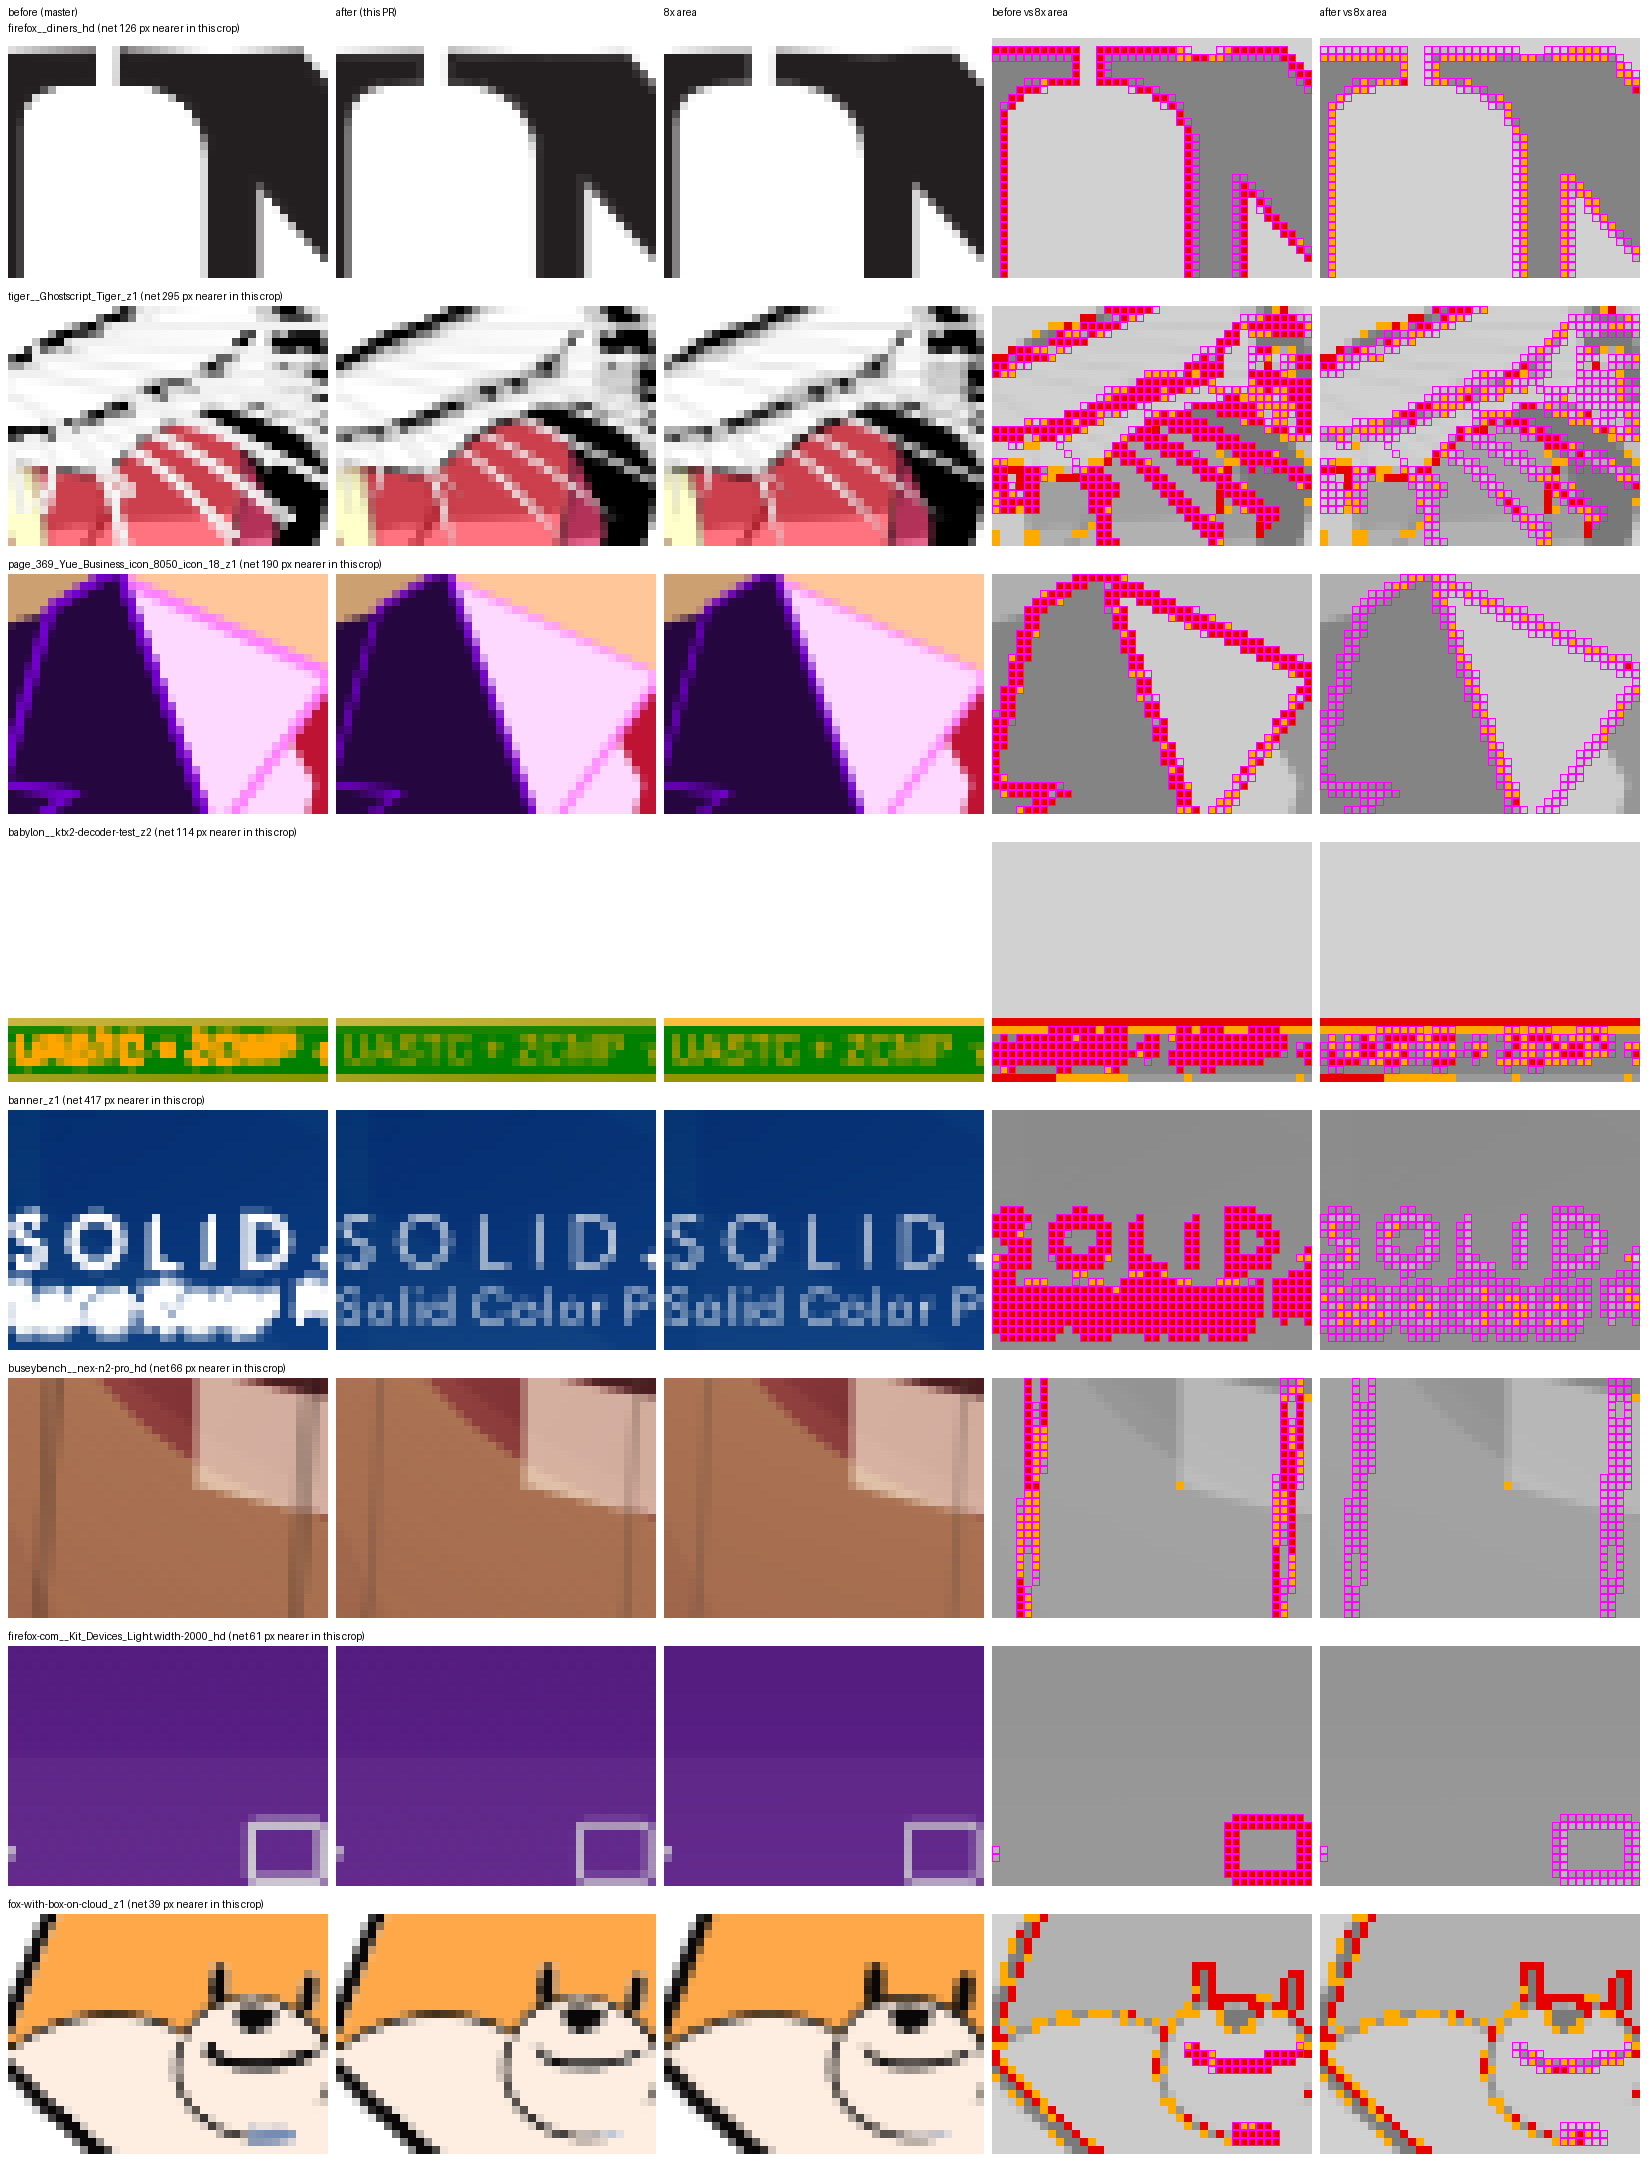
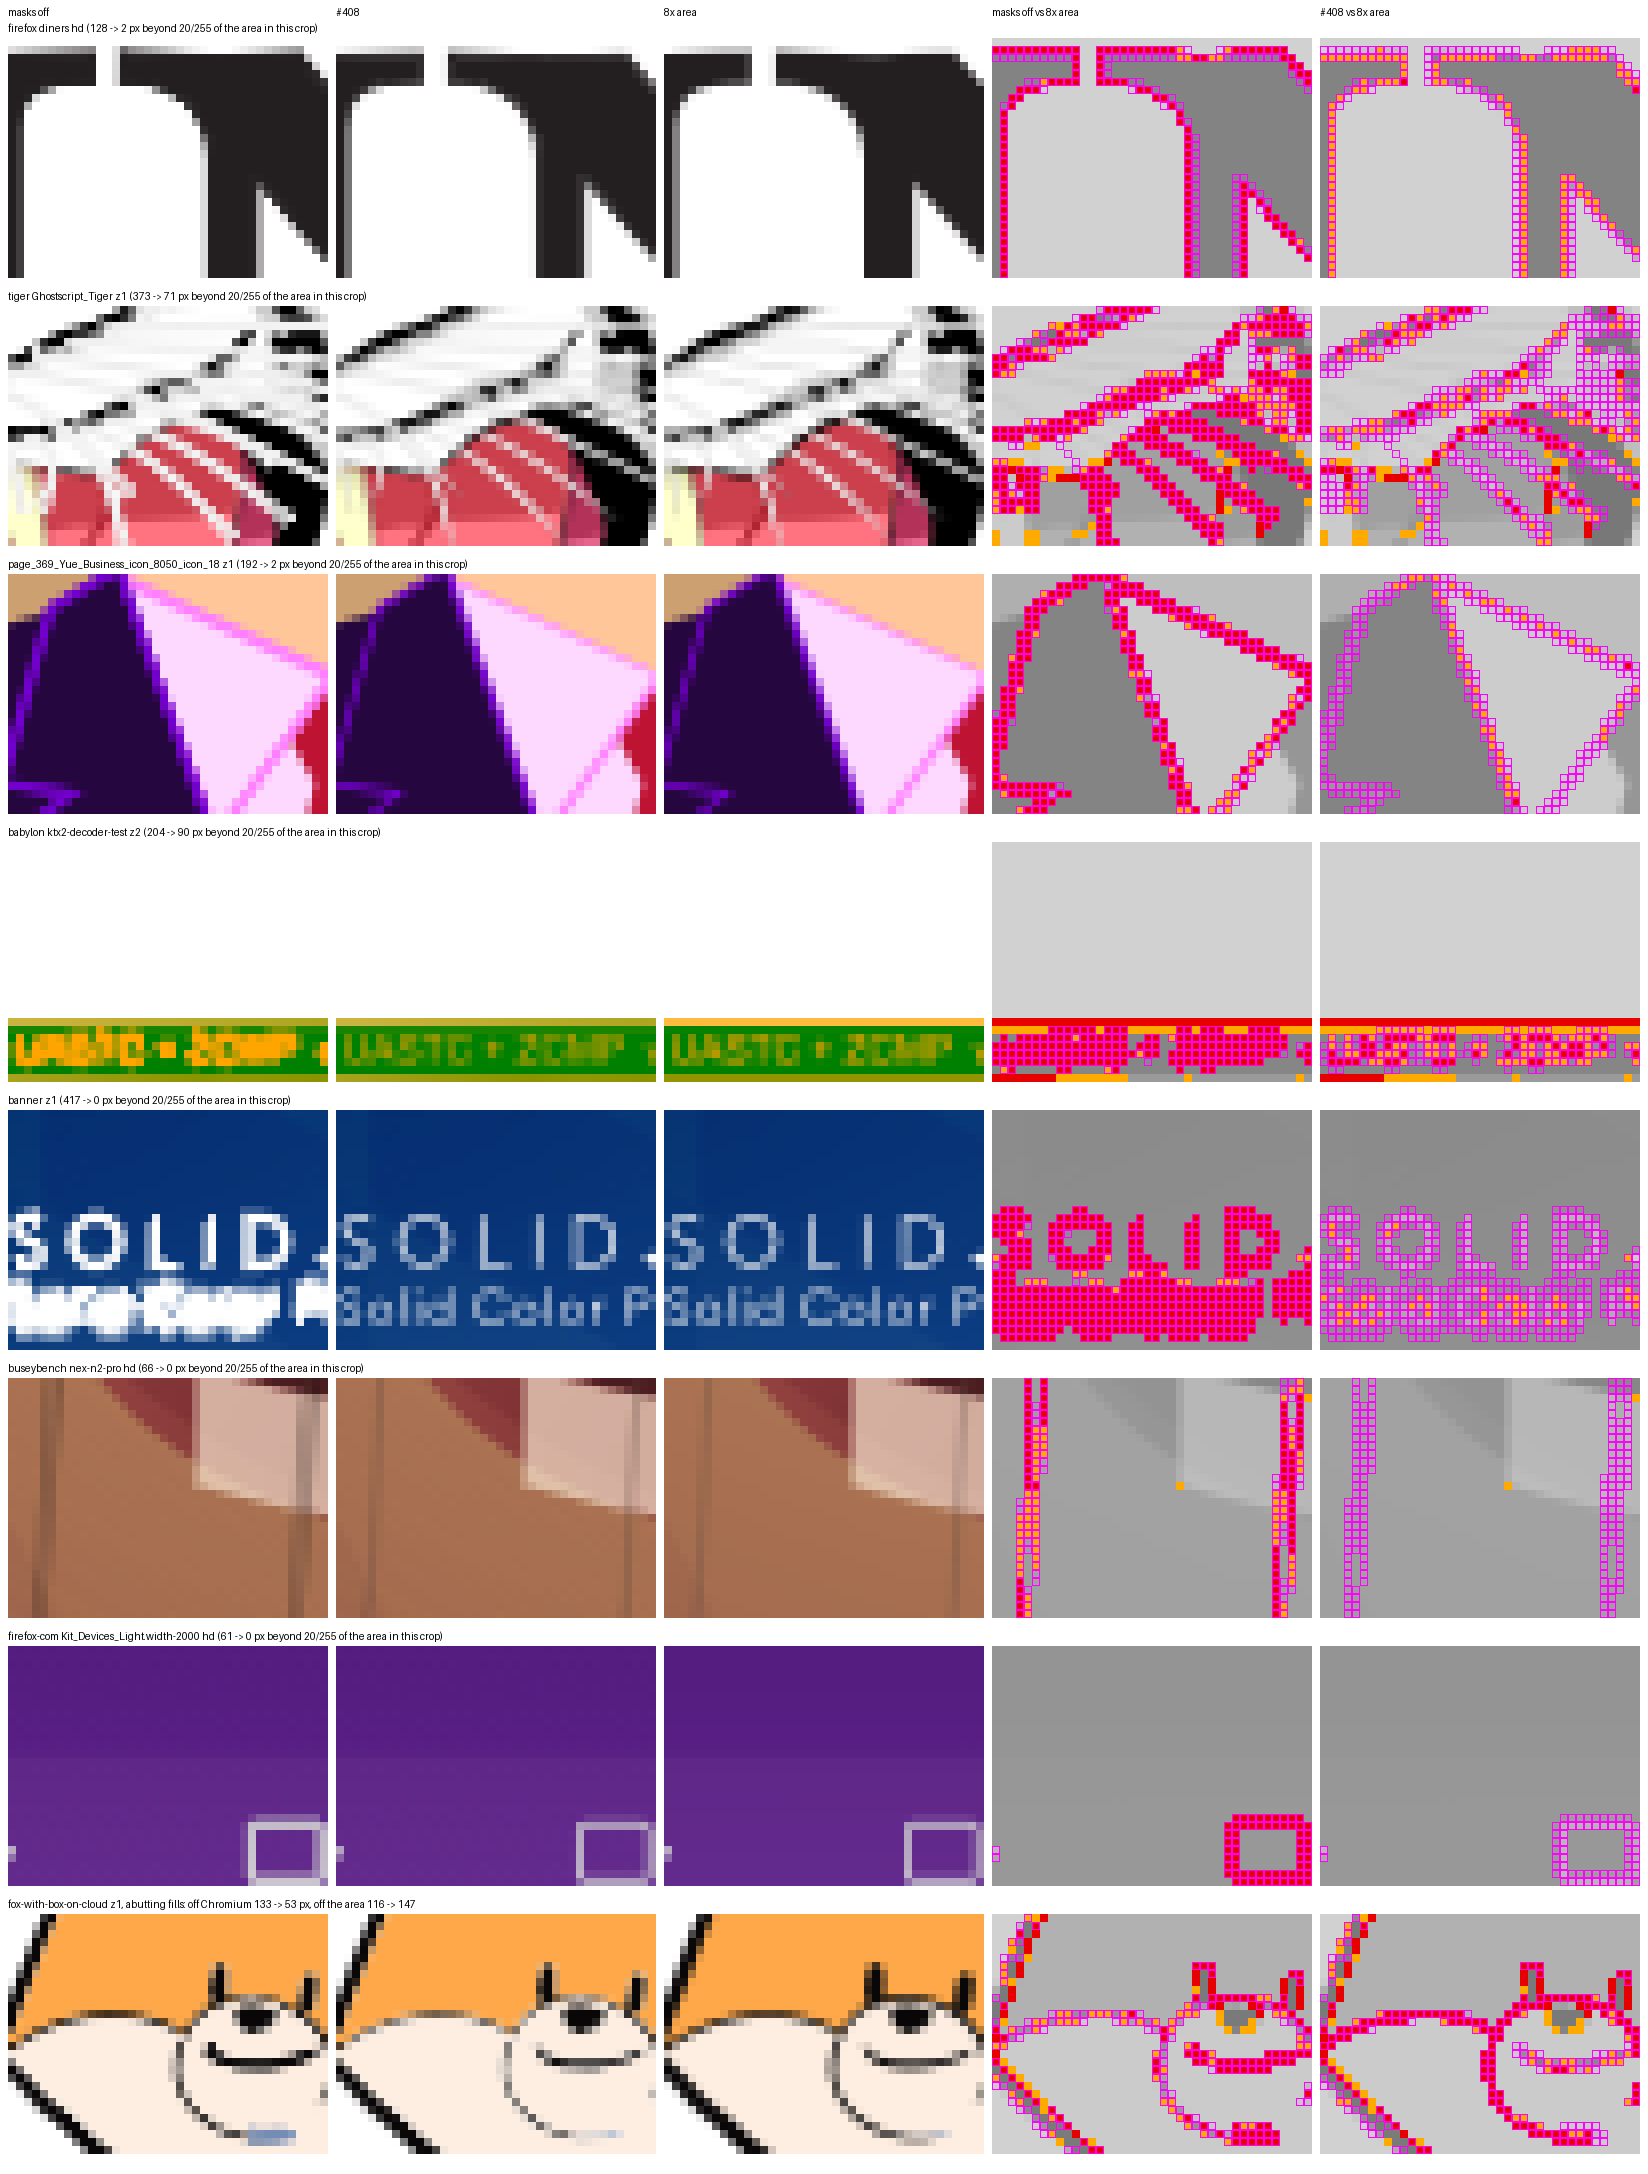
Thin fills: two pixels for concave fills, the atlas that lets go, and the images of two issues
harness/thin-fill-masks: corpus sheets of #408 as pushed (masks off and on, one binary, with the NYT marks at
50 px the wider test fixes), the rows, and a dated section with the corpus, cost, memory and GPU numbers.
issue-mesh-conflation.png: the Babylon image drawn as unit squares, master, #408, Chromium and the area.
issue-snap-legibility.png: snapped mask positions at 1/4, 1/8 and 1/16 px on the SolidJS banner, Babylon pointers
and the NYT tile logo.
corpus_run/common.py: the snapping, memory, gate and final builds, and the p240 framing; strip.py names its
columns (BEFORE_NAME, AFTER_NAME).

diff --git a/harness/corpus_run/common.py b/harness/corpus_run/common.py
@@ -27,6 +27,8 @@ FRAMINGS = {'z1': (DEFAULT, 1.0), 'z2': (DEFAULT, 2.0), 'z4': (DEFAULT, 4.0), 'h
 FRAMINGS.update({'z01': (DEFAULT, 0.1), 'z025': (DEFAULT, 0.25), 'z05': (DEFAULT, 0.5)})
 # Zooms about the top-centre band of the box (PIVOT at frame 230,48) for wide artwork that the centre pivot zooms past.
 FRAMINGS.update({'zt2': ({**DEFAULT, 'PIVOT': '230,48'}, 2.0), 'zt4': ({**DEFAULT, 'PIVOT': '230,48'}, 4.0)})
+# 240p: the box the frame's height, centred, as at 1080p.
+FRAMINGS['p240'] = ({'FRAME_W': '426', 'FRAME_H': '240', 'BOX': '240', 'BOX_X': '93', 'BOX_Y': '0'}, 1.0)
 DEFAULT_FRAMINGS = ['z1', 'z2', 'z4', 'hd']
 
 
@@ -248,3 +250,26 @@ BUILDS['m9'] = (f'{BIN}/_logos_full_m9', {'SINGLE_SHADOW_LAYER': '1'})
 BUILDS['sab'] = (f'{BIN}/_logos_full_sab', {'SINGLE_SHADOW_LAYER': '1'})
 BUILDS['m9_lsm'] = (f'{BIN}/_logos_full_m9', {})
 BUILDS['sab_lsm'] = (f'{BIN}/_logos_full_sab', {})
+
+# Snapping experiment (femtovg branch thin-fill-snap 57008ac5, on #408 420f070a): the fill masks' positions snapped to
+# 1/n of a pixel by FEMTOVG_MASK_SNAP=n; snp0 is the same binary exact.
+for _n in (0, 2, 4, 8, 16):
+    BUILDS[f'snp{_n}'] = (f'{BIN}/_logos_full_snp', {'SINGLE_SHADOW_LAYER': '1', 'FEMTOVG_MASK_SNAP': str(_n)})
+# The same on #408 + #409 with snapped masks kept while a scene moves (femtovg branch snap-final 6f03873f): snpf<n>,
+# and snpf_off with the masks off.
+for _n in (0, 4, 8, 16):
+    BUILDS[f'snpf{_n}'] = (f'{BIN}/_logos_full_snpf', {'SINGLE_SHADOW_LAYER': '1', 'FEMTOVG_MASK_SNAP': str(_n)})
+
+# #408 at 420f070a and the memory experiment on it (femtovg branch thin-fill-masks-mem 599fcdb1: no CPU copy of the
+# fill mask atlas, each mask uploaded on its own, the atlas started over smaller), built from one harness revision.
+BUILDS['t408'] = (f'{BIN}/_logos_full_t408', {'SINGLE_SHADOW_LAYER': '1'})
+BUILDS['mem'] = (f'{BIN}/_logos_full_mem', {'SINGLE_SHADOW_LAYER': '1'})
+# The thin-fill gate widened (femtovg branch thin-fill-gate 8106c327, on #408 420f070a): gate<w> draws fills whose
+# mean width is under w/10 px through masks (gate10 = #408).
+for _w in (10, 15, 20, 30):
+    BUILDS[f'gate{_w}'] = (f'{BIN}/_logos_full_gate', {'SINGLE_SHADOW_LAYER': '1', 'FEMTOVG_THIN_WIDTH': str(_w / 10)})
+BUILDS['mem2'] = (f'{BIN}/_logos_full_mem2', {'SINGLE_SHADOW_LAYER': '1'})
+# #408 as pushed with the 2 px gate for concave fills and the row-limited atlas (thin-fill-masks, local until pushed),
+# and master 9f5ad261, built from one harness revision on 2026-10-17.
+BUILDS['f408'] = (f'{BIN}/_logos_full_f408', {'SINGLE_SHADOW_LAYER': '1'})
+BUILDS['m0'] = (f'{BIN}/_logos_full_m0', {'SINGLE_SHADOW_LAYER': '1'})

diff --git a/harness/hard-mask-scenes/strip.py b/harness/hard-mask-scenes/strip.py
@@ -4,7 +4,7 @@ size) or label=REF,BEFORE,AFTER@x0,y0,x1,y1 to crop all three to that box first.
 reference, before vs the reference and after vs the reference (the reference in grey, red where a channel differs
 by more than 20, orange by more than 8, and - at a SCALE of 8 or more - the pixels before and after differ at by
 more than 2 outlined in magenta). Panels are scaled by SCALE (env, default 2) with nearest neighbour; REF_NAME (env,
-default Chromium) names the reference column. Prints per row the pixels more than
+default Chromium) names the reference column, BEFORE_NAME and AFTER_NAME the others. Prints per row the pixels more than
 20 off the reference, before and after."""
 import os, sys
 from PIL import Image, ImageDraw
@@ -13,7 +13,10 @@ import numpy as np
 SCALE = int(os.environ.get('SCALE', 2))
 out, rows = sys.argv[1], sys.argv[2:]
 REF = os.environ.get('REF_NAME', 'Chromium')  # what the reference column is, e.g. '8x area'
-HEADS = ['before (master)', 'after (this PR)', REF, f'before vs {REF}', f'after vs {REF}']
+BEFORE = os.environ.get('BEFORE_NAME', 'before')  # e.g. 'exact masks'; the column reads 'before (master)' by default
+AFTER = os.environ.get('AFTER_NAME', 'after')
+HEADS = [BEFORE if 'BEFORE_NAME' in os.environ else 'before (master)', AFTER if 'AFTER_NAME' in os.environ else 'after (this PR)',
+         REF, f'{BEFORE} vs {REF}', f'{AFTER} vs {REF}']
 
 
 def load(path, box):

diff --git a/harness/thin-fill-masks/README.md b/harness/thin-fill-masks/README.md
@@ -151,3 +151,35 @@ Apple TV ("team h"), with the tools in `../pmc`:
   upload, about 40 % of it: wgpu's `write_texture` makes a staging buffer each
   call (the `wgpu-frame-setup` branch's staging belt is the fix for every image
   upload).
+
+## Two pixels for concave fills, and an atlas that lets go (2026-10-17)
+
+- A fill is thin when its mean width is under two pixels, or under one if each
+  of its contours is convex. #327's New York Times marks at 50 px (`z025`), the
+  tile logo +23 % and the Cooking wordmark +14 % over Chromium's ink with the
+  one-pixel test, come within 2 %; a convex contour a pixel wide and more keeps
+  its fringe, which draws a rectangle exactly. `corpus-small.png` now ends with
+  the two marks.
+- Master against #408 (`m0`, `f408` in `../corpus_run/common.py`, one harness
+  revision): 1,522 of 12,670 frames change (ten framings with `p240`); on the
+  579 with an area reference, pixels beyond 20/255 of it 239,663 -> 185,912,
+  523 nearer, 29 further (Firefox 141,008, GPU Chromium 150,393, software
+  Chromium 199,649 on the same frames). The furthest is the Babylon
+  `vertex-pulling...__1` image drawn as 65,536 unit squares at 240p (+35,018
+  px, conflation as in Chromium and Firefox); of the 28 others (+1,163 px) 21
+  land nearer Chromium or Firefox's own count, 3 have no browser frame, and 4
+  move 4 to 20 px in text and soft edges both builds draw unlike both
+  references. `corpus-1x.png`'s fox row is one of them: off Chromium 133 -> 53
+  px, off the area 116 -> 147.
+- The atlas keeps on the CPU only its rows down to the lowest mask, and a
+  moving scene's atlas is made smaller after eight start-overs that needed
+  less: at 1080p on an iPhone XS and SE the soak ran 2.0 MiB above the masks off
+  once a sliver had grown the atlas; it now runs within 0.3 MiB.
+- Cost, masks on against off with one binary: M4 still frames (326 frames of
+  the 163 files changed at 1x and 1080p, `../corpus_run/pass_time.py`) -1.9 %
+  in sum, median frame -0.7 %; moving every frame by 0.37 px -0.1 % in sum,
+  median -0.1 %, the worst +18 % (svgenius page_207 icon_72 at 1080p). Render
+  thread efficiency-core cycles a moving frame over the 20-frame soak: XS +5.4
+  %, SE +5.8 % (+6.1 / +6.4 % with #409), diners at 1080p +27 / +29 %. GPU time
+  on the SE at 1080p (GPU intervals, Metal GPU Counters) 63.8 -> 63.1 ms,
+  bandwidth within 0.4 %.
